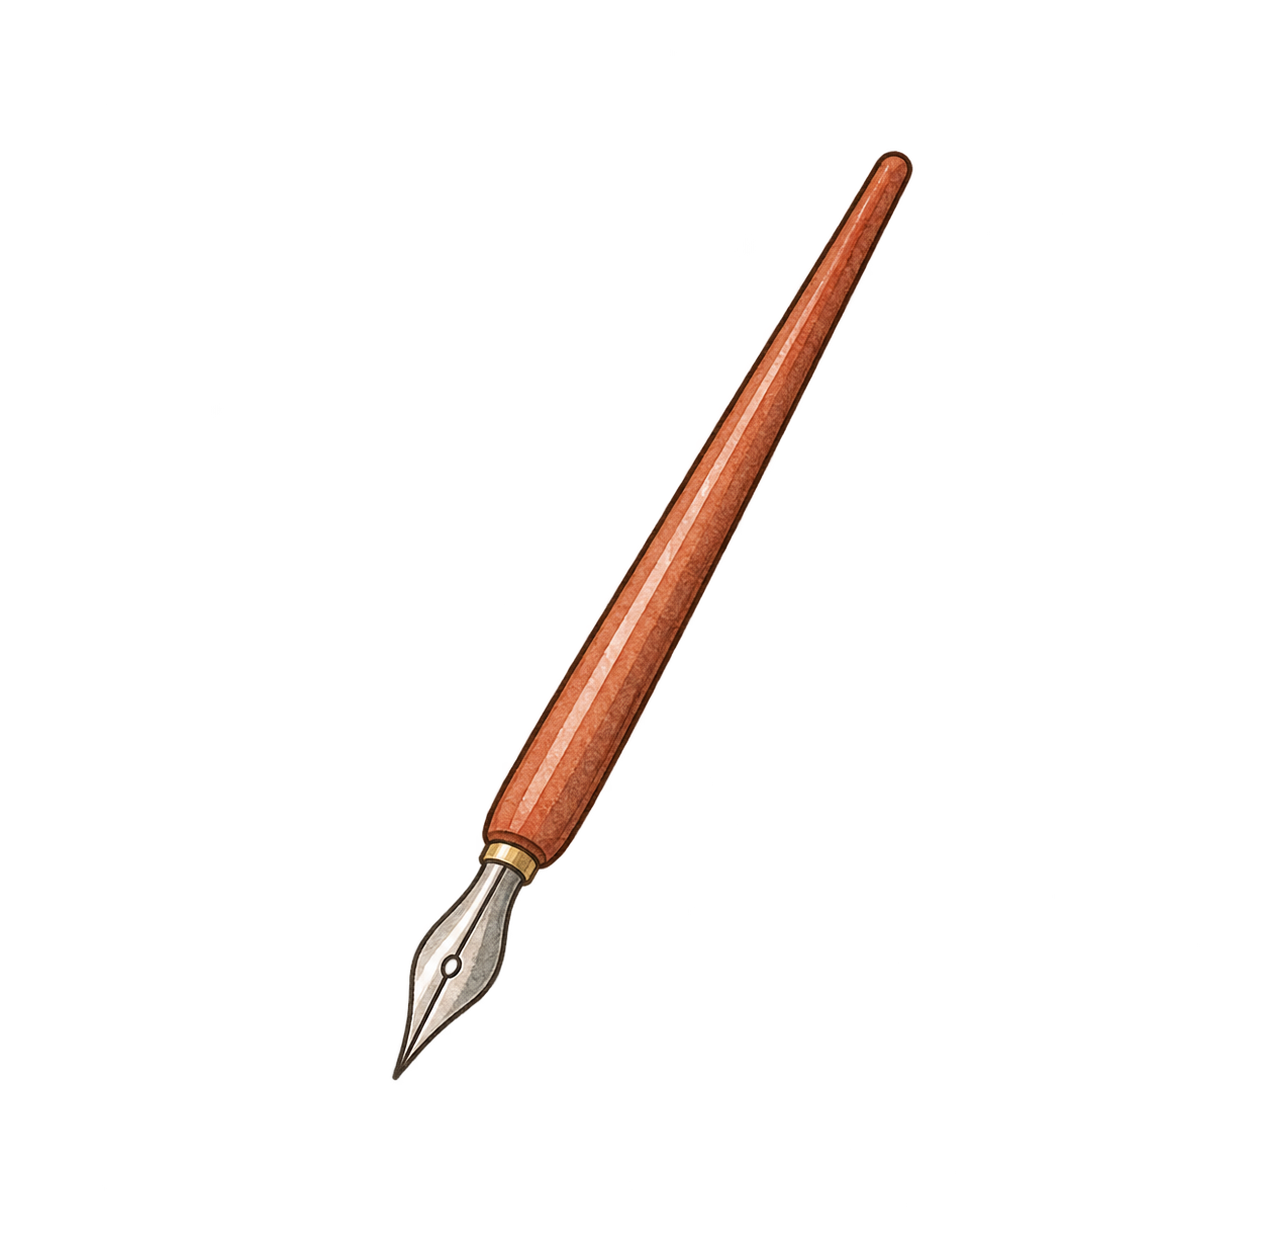
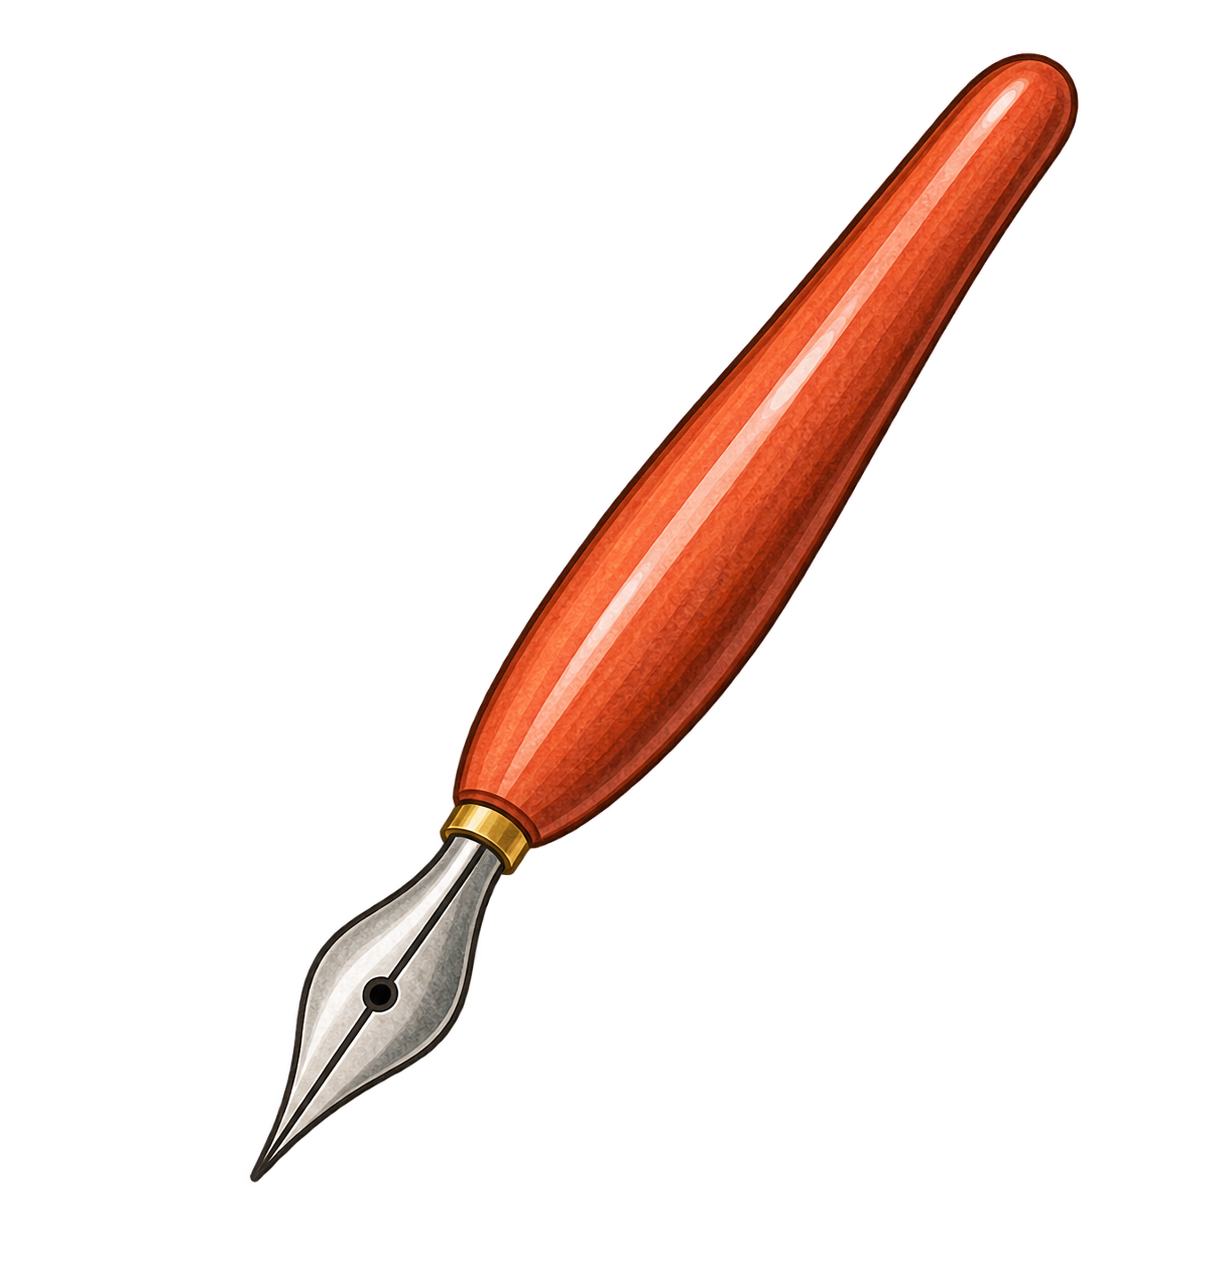
レビューサイトモックページ 各種絵文字からアイコンに変更

Changed region(s): [[0.186, 0.0305, 0.8989, 0.9142]]

diff --git a/mockup/review.html b/mockup/review.html
@@ -84,6 +84,9 @@
     color: #fff;
   }
   .tab-icon { width: 24px; height: 24px; object-fit: contain; }
+  .count-icon { width: 13px; height: 13px; vertical-align: middle; object-fit: contain; }
+  .label-icon { width: 16px; height: 16px; vertical-align: middle; object-fit: contain; }
+  .inline-icon { width: 14px; height: 14px; vertical-align: middle; object-fit: contain; }
 
   .content {
     max-width: 480px;
@@ -236,7 +239,7 @@
     font-size: 14px;
   }
   .qa-title { font-size: 13px; font-weight: 700; margin-bottom: 4px; }
-  .qa-text { font-size: 13px; line-height: 1.8; color: #5c554c; }
+  .qa-text { font-size: 13px; line-height: 1.8; color: #5c4a38; }
 
   .helpful-row {
     max-width: 480px;
@@ -249,7 +252,7 @@
     align-items: center;
     box-shadow: 0 2px 10px rgba(90,110,110,0.08);
   }
-  .helpful-row div div:last-child { color: #2a2520; }
+  .helpful-row div div:last-child { color: #5c4a38; }
   .helpful-btn {
     background: #fff;
     border: 1px solid #4f8fa3;
@@ -279,7 +282,8 @@
   .intro-text {
     font-size: 13px;
     line-height: 1.9;
-    color: #5c554c;
+    color: #3d2b1f;
+    font-weight: 700;
     margin-bottom: 16px;
   }
   .info-box {
@@ -322,7 +326,7 @@
   .info-box li {
     font-size: 12px;
     line-height: 1.8;
-    color: #5c554c;
+    color: #5c4a38;
     margin-bottom: 10px;
     padding-left: 14px;
     position: relative;
@@ -368,7 +372,7 @@
     display: flex; align-items: center; justify-content: center;
     flex-shrink: 0;
   }
-  .benefit-text { font-size: 12px; line-height: 1.7; color: #5c554c; }
+  .benefit-text { font-size: 12px; line-height: 1.7; color: #5c4a38; }
 
   .required { color: #d98a8a; margin-left: 2px; }
   .select-box, .input-box, .textarea-box {
@@ -432,7 +436,7 @@
     padding: 14px;
     margin-top: 18px;
     font-size: 11px;
-    color: #7c7264;
+    color: #5c4a38;
     line-height: 1.8;
   }
 </style>
@@ -446,7 +450,7 @@
       <div class="logo-sub">— Review —</div>
       <div class="header-caption">実際に使ったお客様の声</div>
       <div class="tab-switch">
-        <button class="tab-btn active" onclick="showScreen('screen-list')">💬 レビューを見る</button>
+        <button class="tab-btn active" onclick="showScreen('screen-list')"><img class="tab-icon" src="./images/review-icon.png" alt="">レビューを見る</button>
         <button class="tab-btn" onclick="showScreen('screen-intro')"><img class="tab-icon" src="./images/pen-icon.png" alt="">投稿する</button>
       </div>
     </div>
@@ -469,7 +473,7 @@
             <span class="tag">保湿</span>
             <span class="tag">ダメージケア</span>
           </div>
-          <div class="review-count">💬 8件のレビュー</div>
+          <div class="review-count"><img class="count-icon" src="./images/review-icon.png" alt=""> 8件のレビュー</div>
         </div>
         <div class="chevron">›</div>
       </a>
@@ -484,7 +488,7 @@
             <span class="tag">ツヤ</span>
             <span class="tag">まとまり</span>
           </div>
-          <div class="review-count">💬 12件のレビュー</div>
+          <div class="review-count"><img class="count-icon" src="./images/review-icon.png" alt=""> 12件のレビュー</div>
         </div>
         <div class="chevron">›</div>
       </a>
@@ -499,7 +503,7 @@
             <span class="tag">ダメージケア</span>
             <span class="tag">うるおい</span>
           </div>
-          <div class="review-count">💬 5件のレビュー</div>
+          <div class="review-count"><img class="count-icon" src="./images/review-icon.png" alt=""> 5件のレビュー</div>
         </div>
         <div class="chevron">›</div>
       </a>
@@ -513,7 +517,7 @@
             <span class="tag">ツヤ</span>
             <span class="tag">ダメージケア</span>
           </div>
-          <div class="review-count">💬 9件のレビュー</div>
+          <div class="review-count"><img class="count-icon" src="./images/review-icon.png" alt=""> 9件のレビュー</div>
         </div>
         <div class="chevron">›</div>
       </a>
@@ -529,7 +533,7 @@
       <div class="logo-sub">— Review —</div>
       <div class="header-caption">実際に使ったお客様の声</div>
       <div class="tab-switch">
-        <button class="tab-btn active" onclick="showScreen('screen-list')">💬 レビューを見る</button>
+        <button class="tab-btn active" onclick="showScreen('screen-list')"><img class="tab-icon" src="./images/review-icon.png" alt="">レビューを見る</button>
         <button class="tab-btn" onclick="showScreen('screen-intro')"><img class="tab-icon" src="./images/pen-icon.png" alt="">投稿する</button>
       </div>
     </div>
@@ -559,7 +563,7 @@
         </div>
         <div class="use-date">使用時期：2026年6月</div>
 
-        <div class="photo-label">📷 写真（最大4枚）</div>
+        <div class="photo-label"><img class="inline-icon" src="./images/camera-icon.png" alt=""> 写真（最大4枚）</div>
         <div class="photo-grid">
           <div class="photo-item">Before</div>
           <div class="photo-item">After</div>
@@ -608,7 +612,7 @@
     <div class="helpful-row">
       <div>
         <div style="font-size:12px; font-weight:700;">♡ 参考になった</div>
-        <div style="font-size:11px; color:#6a5f52; margin-top:2px;">12人が参考にしています</div>
+        <div style="font-size:11px; color:#5c4a38; margin-top:2px;">12人が参考にしています</div>
       </div>
       <button class="helpful-btn">♡ 参考になった！</button>
     </div>
@@ -626,14 +630,14 @@
       <div class="logo-sub">— Review —</div>
       <div class="header-caption">実際に使ったお客様の声</div>
       <div class="tab-switch">
-        <button class="tab-btn" onclick="showScreen('screen-list')">💬 レビューを見る</button>
+        <button class="tab-btn" onclick="showScreen('screen-list')"><img class="tab-icon" src="./images/review-icon.png" alt="">レビューを見る</button>
         <button class="tab-btn active"><img class="tab-icon" src="./images/pen-icon.png" alt="">投稿する</button>
       </div>
     </div>
 
     <div class="content">
       <p class="intro-text">
-        いつもご利用いただきありがとうございます☺<br>
+        いつもご利用いただきありがとうございます<img class="inline-icon" src="./images/smile-icon.png" alt=""><br>
         実際に使ってみた感想やお髪やお肌の変化などを教えていただけると嬉しいです<br>
         皆さまのお声が、これから商品を選ぶ方の安心につながります<br>
         ご協力いただいた方には、ささやかですがプレゼントをご用意しております
@@ -650,7 +654,7 @@
             <span class="sub">インターネット・他店で購入された商品は対象外となります<br>※当店経由の公式サイト（ダヴィネス、ムーランエムーラン、B happy）は対象となります</span>
           </li>
           <li>購入日から1年以内の商品が対象となります
-            <span class="sub">✨ただし美容家電など使用期限のないものは購入日は問いません✨</span>
+            <span class="sub"><img class="inline-icon" src="./images/sparkle-icon.png" alt="">ただし美容家電など使用期限のないものは購入日は問いません<img class="inline-icon" src="./images/sparkle-icon.png" alt=""></span>
           </li>
           <li>サンプル・テスター・試供品は対象外です</li>
           <li>投稿いただいた文章・写真は、個人が特定されない形で当店のLINE・店内・今後の販促物などで使用させていただく場合があります
@@ -671,7 +675,7 @@
         <div class="accordion-body">
 
         <div class="benefit-item">
-          <div class="benefit-icon">🎁</div>
+          <div class="benefit-icon"><img class="inline-icon" src="./images/gift-icon.png" alt=""></div>
           <div class="benefit-text">
             <strong>コメントのみ</strong><br>
             1回につきお好きなサシェ2枚プレゼント<br>
@@ -690,14 +694,14 @@
           <div class="benefit-text">コメントのみ 10回達成で、1,000円分のオプションからお好きなメニュー3回分無料プレゼント</div>
         </div>
         <div class="benefit-item">
-          <div class="benefit-icon">📷</div>
+          <div class="benefit-icon"><img class="inline-icon" src="./images/camera-icon.png" alt=""></div>
           <div class="benefit-text">写真付きレビュー1回につき、1,000円分のオプションメニューからお好きなメニュー1回分無料プレゼント</div>
         </div>
         </div>
       </div>
 
       <div class="form-group">
-        <div class="form-group-label">🧴 商品<span class="required">*</span></div>
+        <div class="form-group-label"><img class="label-icon" src="./images/product-icon.png" alt="">商品<span class="required">*</span></div>
         <select class="select-box">
           <option>商品を選択してください</option>
         </select>
@@ -705,37 +709,37 @@
       </div>
 
       <div class="form-group">
-        <div class="form-group-label">📅 使用年月日<span class="required">*</span></div>
+        <div class="form-group-label"><img class="label-icon" src="./images/calendar-icon.png" alt="">使用年月日<span class="required">*</span></div>
         <input class="input-box" placeholder="年 / 月を選択してください">
         <div class="form-hint">いつ頃使用し始めましたか？</div>
       </div>
 
       <div class="form-group">
-        <div class="form-group-label">👤 お悩み<span class="required">*</span></div>
+        <div class="form-group-label"><img class="label-icon" src="./images/worry-icon.png" alt="">お悩み<span class="required">*</span></div>
         <textarea class="textarea-box" placeholder="例）パサつき、うねり、乾燥、頭皮のかゆみ など"></textarea>
         <div class="form-hint">使用前のお悩みを教えてください</div>
       </div>
 
       <div class="form-group">
-        <div class="form-group-label">✨ 使ってどう変わったか<span class="required">*</span></div>
+        <div class="form-group-label"><img class="label-icon" src="./images/sparkle-icon.png" alt="">使ってどう変わったか<span class="required">*</span></div>
         <textarea class="textarea-box" placeholder="例）髪がしっとりまとまるようになった、広がりが落ち着いた など" style="height:90px;"></textarea>
         <div class="form-hint">使用してからの変化を具体的に教えてください（100文字以上推奨）</div>
       </div>
 
       <div class="form-group">
-        <div class="form-group-label">♡ 気に入っている点（任意）</div>
+        <div class="form-group-label"><img class="label-icon" src="./images/heart-icon.png" alt="">気に入っている点（任意）</div>
         <textarea class="textarea-box" placeholder="例）香り、泡立ち、仕上がり、テクスチャー など"></textarea>
         <div class="form-hint">この商品の特に気に入っている点はありますか？</div>
       </div>
 
       <div class="form-group">
-        <div class="form-group-label">💬 感想（任意）</div>
+        <div class="form-group-label"><img class="label-icon" src="./images/review-icon.png" alt="">感想（任意）</div>
         <textarea class="textarea-box" placeholder="自由にご感想をお聞かせください"></textarea>
         <div class="form-hint">その他、ご自由にご感想をお聞かせください</div>
       </div>
 
       <div class="form-group">
-        <div class="form-group-label">📷 画像（最大4枚） <span style="font-size:10px; color:#6a5f52; font-weight:400;">任意</span></div>
+        <div class="form-group-label"><img class="label-icon" src="./images/camera-icon.png" alt="">画像（最大4枚） <span style="font-size:10px; color:#5c4a38; font-weight:400;">任意</span></div>
         <div class="image-grid">
           <div class="image-add"><span class="plus">＋</span>画像を追加</div>
           <div class="image-add"><span class="plus">＋</span>画像を追加</div>
